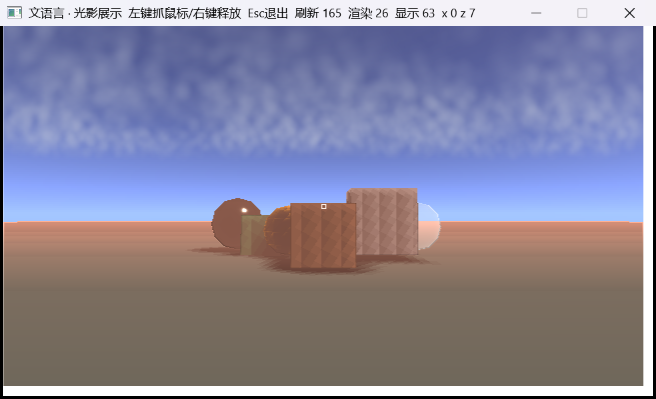
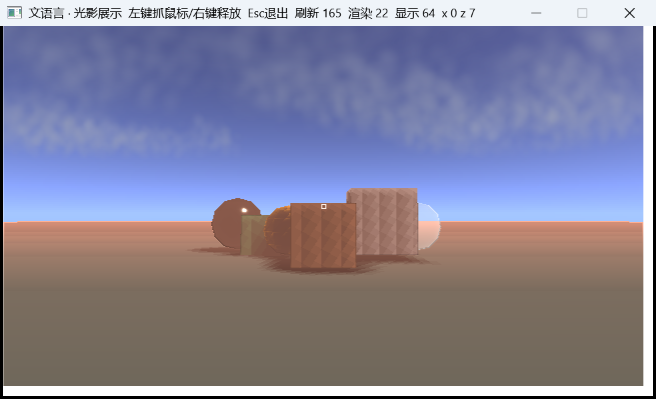
粒子云种子塔/太阳光束衰减/密度场合成/自适应粒子步长；152/154

diff --git a/wen.cpp b/wen.cpp
@@ -11540,6 +11540,7 @@ Interpreter::Interpreter() {
         vector<double> zbuf;
         long long frames = 0; double elapsed = 0;
         double vy = 0; bool onGround = true;
+        double particleStep = 1.3;
         auto lastFrame = std::chrono::steady_clock::now();
         auto t0 = std::chrono::steady_clock::now();
         while (!pw.closed && !(GetAsyncKeyState(VK_ESCAPE) & 0x8000) && !pw.keys[VK_ESCAPE]) {
@@ -11743,12 +11744,20 @@ Interpreter::Interpreter() {
             }
             double tsec = std::chrono::duration<double>(std::chrono::steady_clock::now() - t0).count();
             if (useParticleClouds) {
-                struct PC { PVec p; double d; int layer; };
+                struct PC { PVec p; double d; double shade; int layer; };
                 vector<PC> parts;
+                struct Seed { double x,z,r; };
+                vector<Seed> seeds;
+                for (int i=0;i<14;++i) {
+                    double sx = -38.0 + 76.0 * hash3(i*3.1, 1.7, 2.3);
+                    double sz = -38.0 + 76.0 * hash3(i*5.7, 4.1, 8.9);
+                    double sr = 7.0 + 8.0 * hash3(i*2.3, 9.1, 3.7);
+                    seeds.push_back({sx,sz,sr});
+                }
                 auto addLayer = [&](double base, double top, double cover, double scale, double wind, int layer) {
                     double t = tsec;
-                    for (double gx=-42; gx<=42; gx+=1.6)
-                    for (double gz=-42; gz<=42; gz+=1.6)
+                    for (double gx=-42; gx<=42; gx+=particleStep)
+                    for (double gz=-42; gz<=42; gz+=particleStep)
                     for (double gy=base+0.4; gy<top; gy+=0.9) {
                         double h=(gy-base)/(top-base);
                         double qx=(gx+t*wind)*scale, qy=gy*scale*1.7, qz=(gz-t*wind)*scale;
@@ -11759,19 +11768,26 @@ Interpreter::Interpreter() {
                         double prof=std::pow(std::max(0.0,h),0.40)*std::pow(std::max(0.0,1-h),0.20);
                         double d=(n*prof - (0.52-cover*0.32))*4.0;
                         if (d <= 0.03) continue;
+                        if (layer == 0) {
+                            double env=0;
+                            for (const auto& sd : seeds) {
+                                double dx=gx-(sd.x+t*wind), dz=gz-(sd.z-t*wind);
+                                env=std::max(env, std::exp(-(dx*dx+dz*dz)/(sd.r*sd.r)));
+                            }
+                            if (env < 0.18) continue;
+                            d *= (0.55 + 0.45*env);
+                        }
+                        double beam = 0.45 + 0.55*std::exp(-vnoise3((gx+light.x*4.0)*scale, (gy+2.5)*scale*1.4, (gz+light.z*4.0)*scale)*2.2);
+                        if (d <= 0.03) continue;
                         double jx=(hash3(gx*1.3,gz*1.7,gy)-0.5)*1.8;
                         double jz=(hash3(gz*1.1,gx*1.9,gy+7)-0.5)*1.8;
-                        parts.push_back({{gx+jx, gy, gz+jz}, std::min(1.0,d), layer});
+                        parts.push_back({{gx+jx, gy, gz+jz}, std::min(1.0,d), beam, layer});
                         if (parts.size() > 26000) return;
                     }
                 };
                 addLayer(atmo.base, atmo.top, atmo.cover, atmo.scale, atmo.wind, 0);
                 if (atmo.highCover > 0.01) addLayer(atmo.highBase, atmo.highTop, atmo.highCover, atmo.highScale, atmo.wind*0.6, 1);
                 std::cerr << "PARTS " << parts.size() << " cover=" << atmo.cover << "\n";
-                std::sort(parts.begin(), parts.end(), [&](const PC& a, const PC& b) {
-                    auto da=psub(a.p,cam), db=psub(b.p,cam);
-                    return pdot(da,da) > pdot(db,db);
-                });
                 auto pj = [&](PVec q, double& sx, double& sy, double& zz)->bool {
                     PVec d=psub(q,cam); zz=pdot(d,f); if(zz<=0.2) return false;
                     double xx=pdot(d,r), yy=pdot(d,u); double fl=(double)h*0.95;
@@ -11783,7 +11799,9 @@ Interpreter::Interpreter() {
                     double sx,sy,zz;
                     if (!pj(pt.p,sx,sy,zz)) continue;
                     double rad = std::max(3.0, std::min(120.0, 360.0/zz));
-                    double cr = pt.layer ? 220 : 205, cg = pt.layer ? 225 : 210, cb = pt.layer ? 240 : 220;
+                    double cr = (pt.layer ? 220 : 205) * (0.62 + 0.38*pt.shade);
+                    double cg = (pt.layer ? 225 : 210) * (0.62 + 0.38*pt.shade);
+                    double cb = (pt.layer ? 240 : 220) * (0.62 + 0.38*pt.shade);
                     double wgt = pt.d * (pt.layer ? 0.55 : 1.0);
                     int x0=(int)(sx-rad), x1=(int)(sx+rad), y0=(int)(sy-rad), y1=(int)(sy+rad);
                     if (x1<0||y1<0||x0>=w||y0>=h) continue;
@@ -12189,6 +12207,8 @@ Interpreter::Interpreter() {
             double frameMs=std::chrono::duration<double,std::milli>(frameEnd-frameStart).count();
             // 自适应云质量：按实际帧时间调整，先保交互，再保细节
             if (frames % 24 == 0) {
+                if (frameMs > 34.0) particleStep = std::min(2.0, particleStep + 0.08);
+                else if (frameMs < 18.0) particleStep = std::max(1.0, particleStep - 0.05);
                 if (frameMs > 34.0 && atmo.res < 14) { ++atmo.res; if (atmo.steps > 4) --atmo.steps; }
                 else if (frameMs < 18.0 && atmo.res > 6) { --atmo.res; if (atmo.steps < 10) ++atmo.steps; }
             }

diff --git a/渲染架构.md b/渲染架构.md
@@ -67,6 +67,8 @@ color = albedo * kd * (ambient + NoL * intensity) + spec * lightColor
 - 粒子先累加到屏幕密度/颜色场\n- 再统一做体积吸收，避免一颗颗圆点
 - 不逐像素算相函数/BRDF
 - 高层/低层按高度分层粒子
+- 种子云塔：14 个水平种子，径向包络拉开团块
+- 粒子按太阳方向做光束衰减，暗部/亮部进颜色场
 ## 云重建
 - Catmull-Rom 4×4 重建
 - 云质量按帧时间自适应

diff --git a/版本验证报告.md b/版本验证报告.md
@@ -1,6 +1,6 @@
 # 版本验证报告
 
-- 生成时间：2026-10-28 22:27:04
+- 生成时间：2026-10-28 22:35:47
 - 版本：`0.1.0-snapshot`
 - 测试：未运行
 
@@ -17,8 +17,8 @@
 可运行: 真
 ```
 
[1 lines of base64/hex data omitted]
-- 大小：6213284 字节
[1 lines of base64/hex data omitted]
+- 大小：6215778 字节
 
 ## 插件
 
